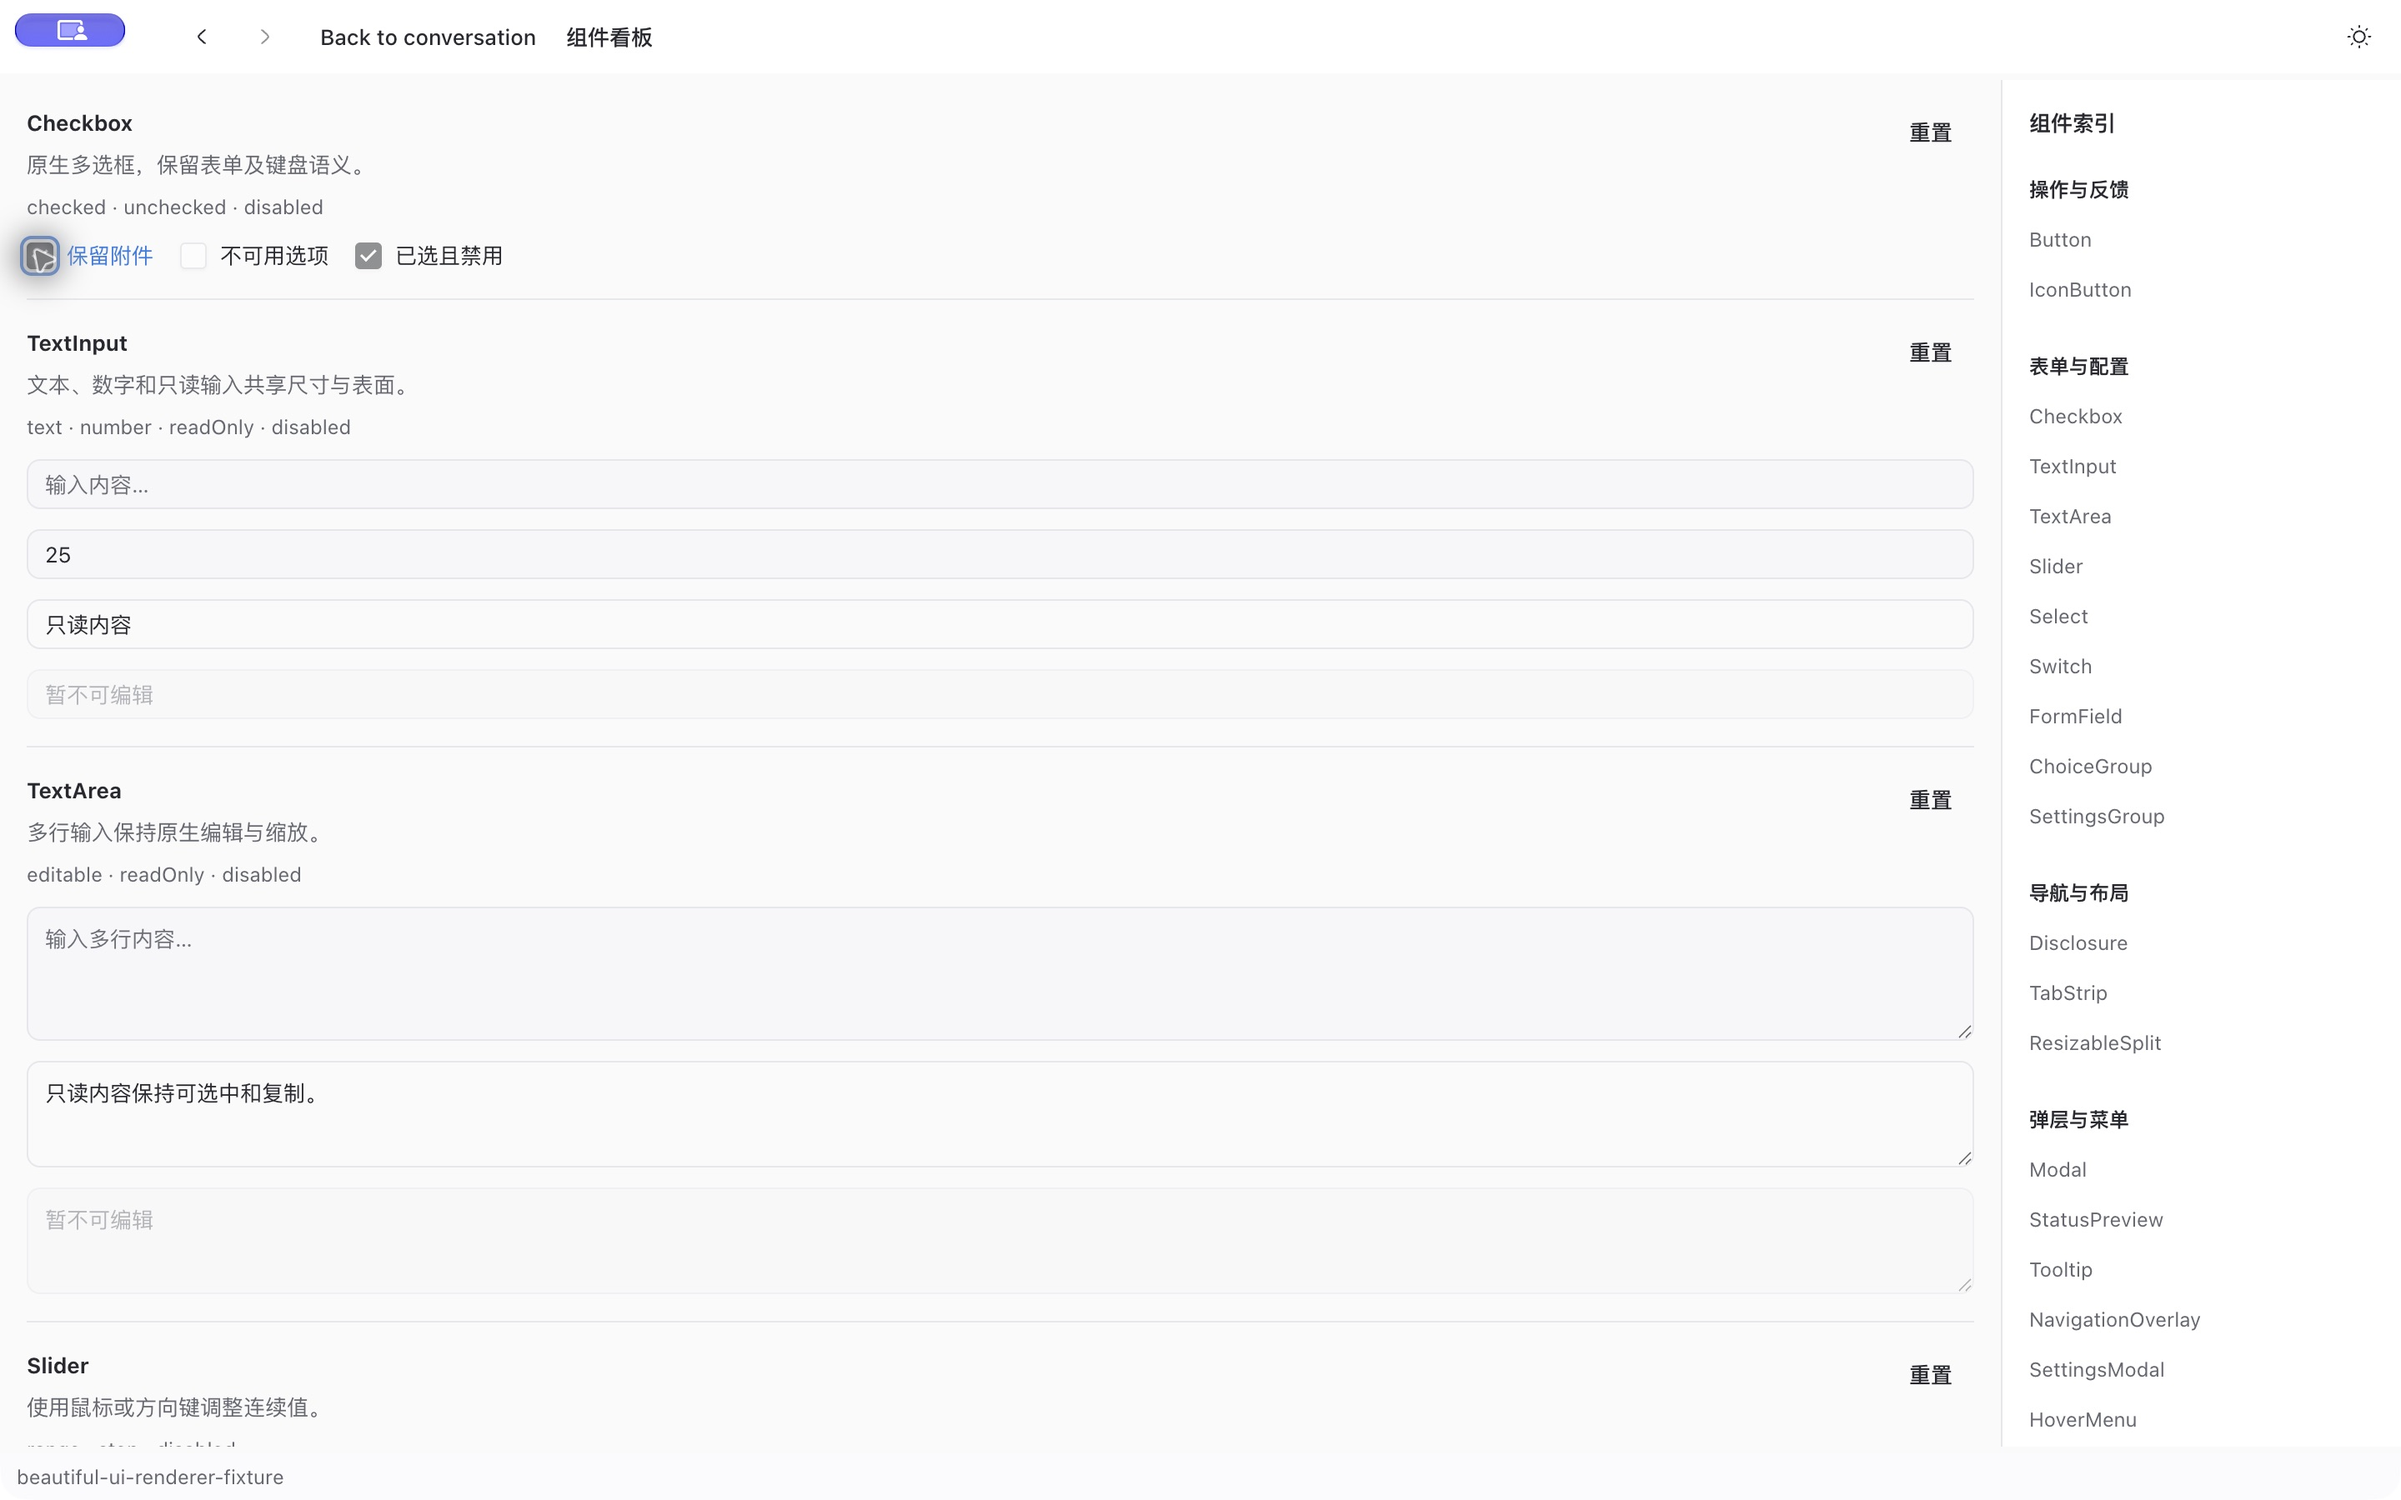
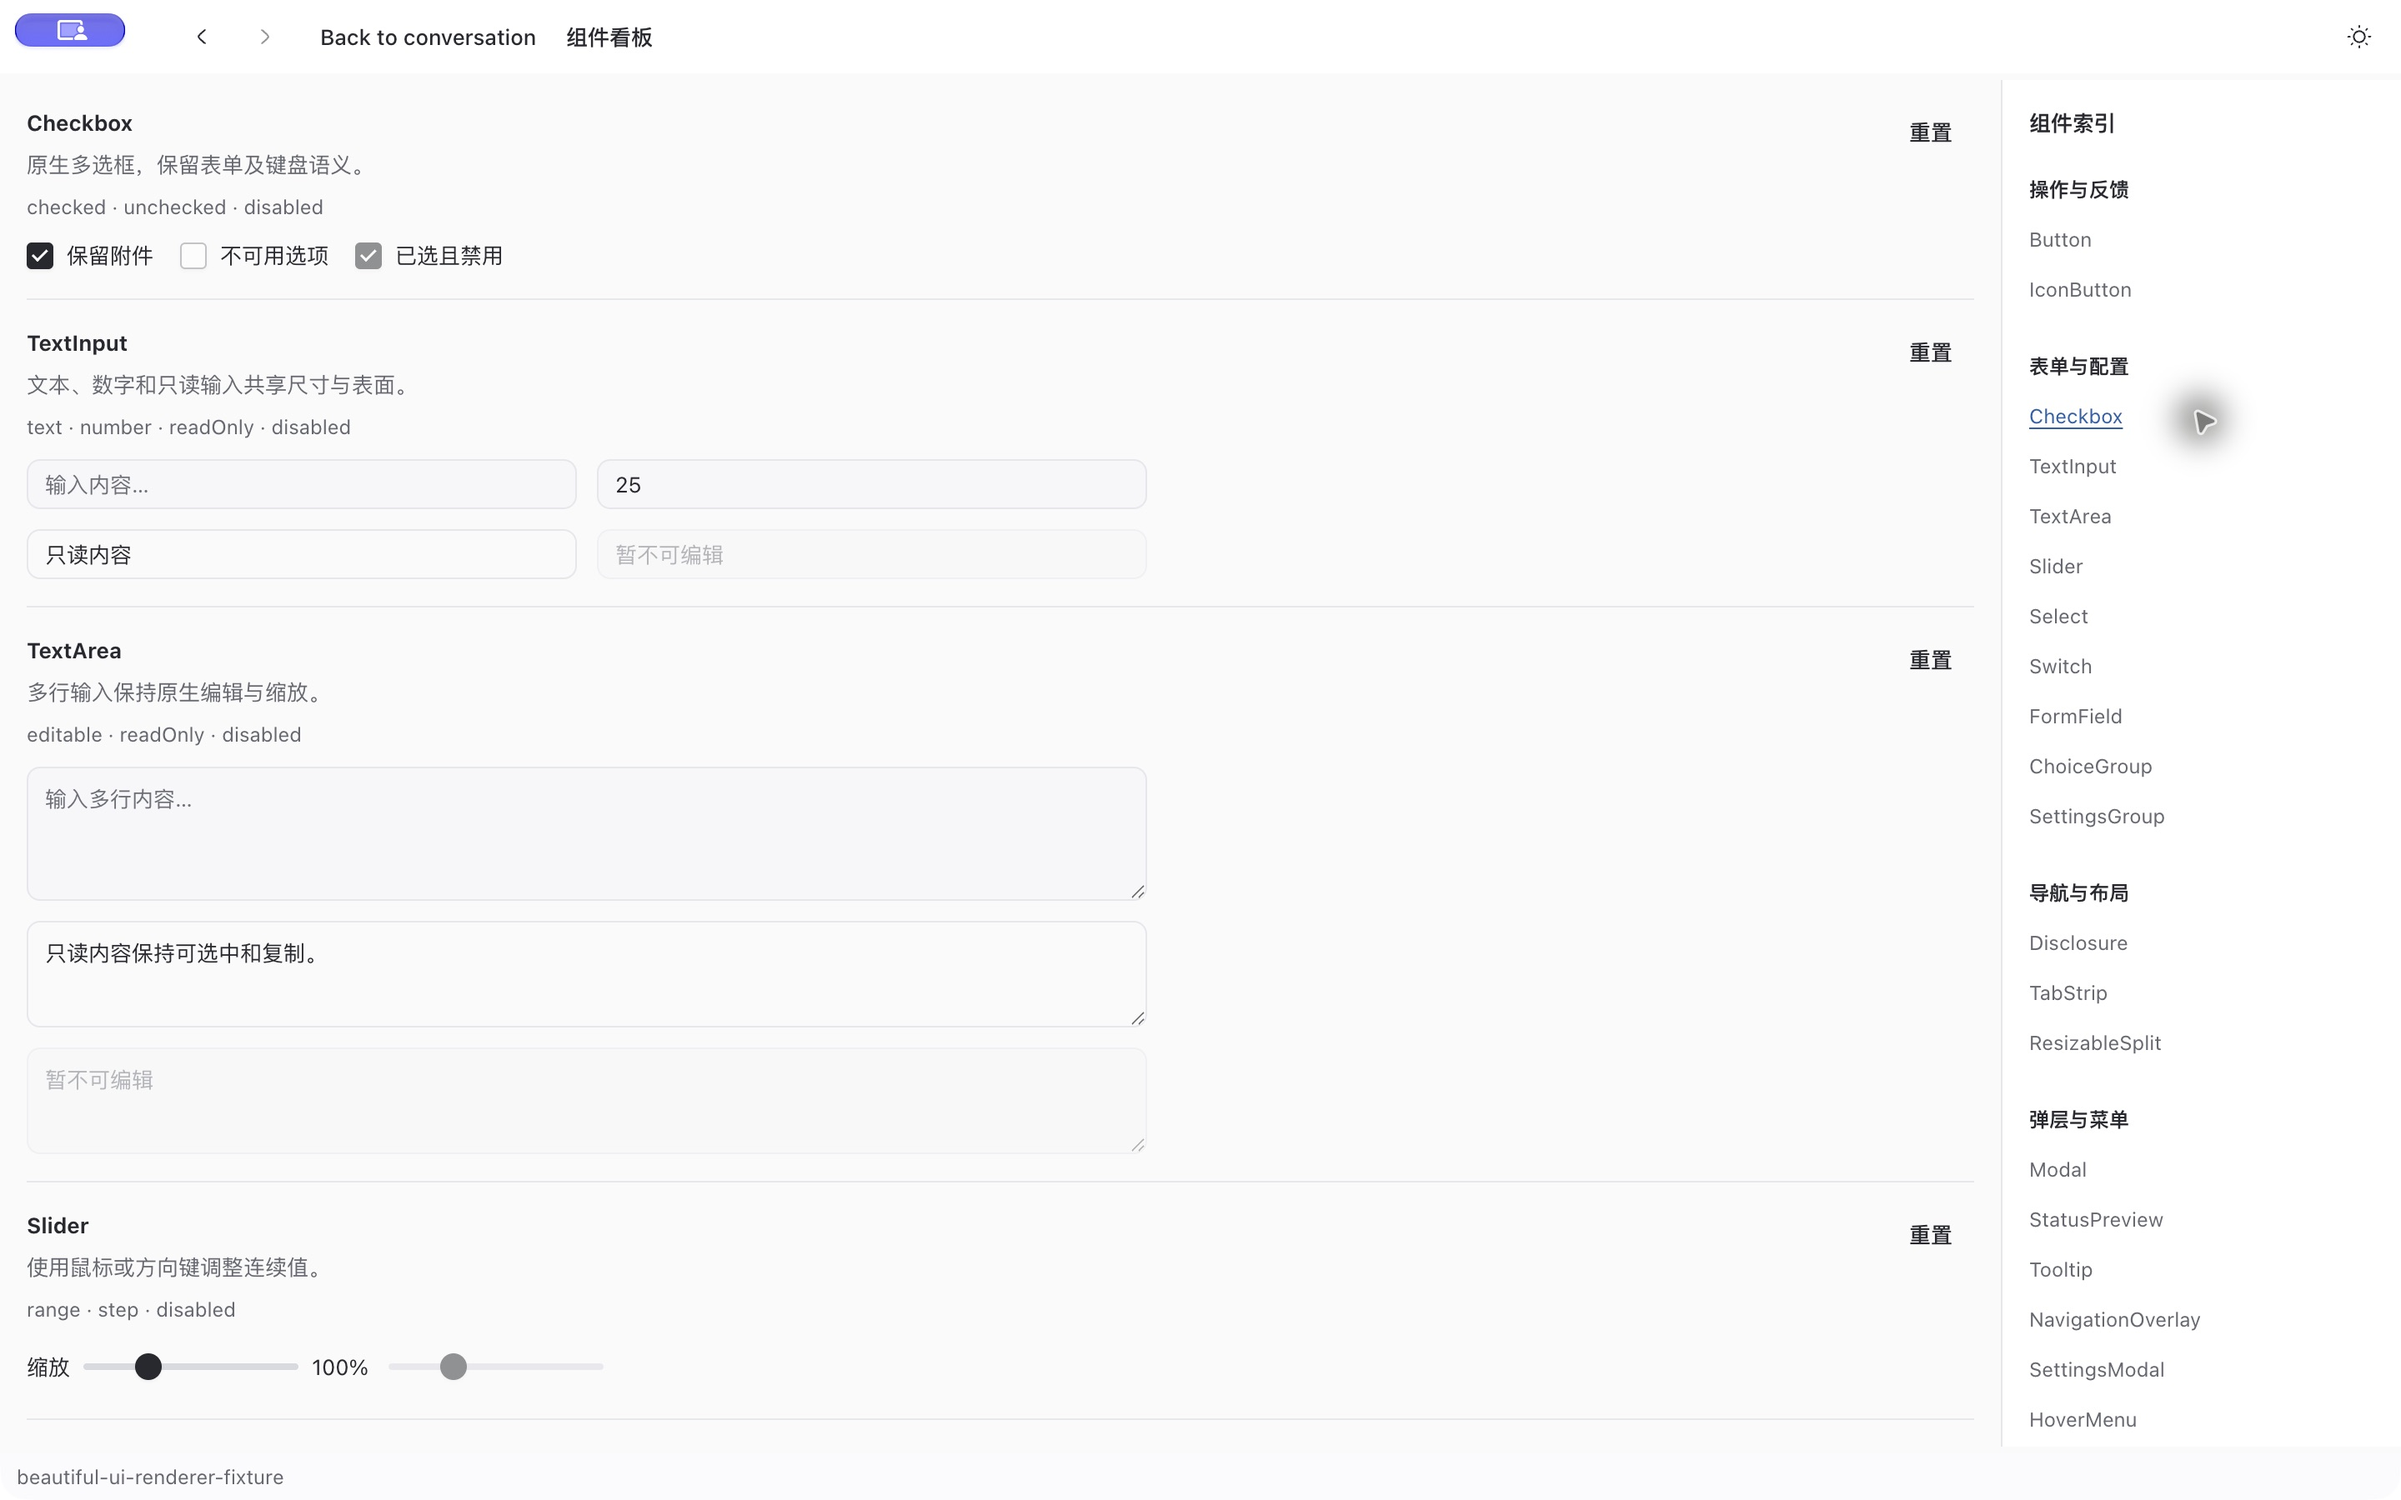
fix(ui): correct control contrast and neutral action states

diff --git a/src/app/renderer/styles/tokens.css b/src/app/renderer/styles/tokens.css
@@ -30,8 +30,16 @@
     var(--emphasis) 78%,
     var(--foreground)
   );
-  --primary-hover: color-mix(in srgb, var(--primary) 90%, var(--foreground));
-  --primary-active: color-mix(in srgb, var(--emphasis) 78%, var(--foreground));
+  --primary-hover: color-mix(
+    in srgb,
+    var(--primary) 88%,
+    var(--primary-foreground)
+  );
+  --primary-active: color-mix(
+    in srgb,
+    var(--primary) 78%,
+    var(--primary-foreground)
+  );
   --muted-hover: color-mix(
     in srgb,
     var(--muted-foreground) 12%,
@@ -39,7 +47,7 @@
   );
   --foreground: var(--preview-light-foreground);
   --primary: #27292e;
-  --emphasis: #287de0;
+  --emphasis: #246fca;
   --emphasis-foreground: #ffffff;
   --emphasis-hover: color-mix(in srgb, var(--emphasis) 90%, var(--foreground));
   --emphasis-active: color-mix(in srgb, var(--emphasis) 78%, var(--foreground));
@@ -50,6 +58,7 @@
   --muted-foreground: #646870;
   --border: #e6e7eb;
   --border-strong: #d8dae0;
+  --control-border: #8a8d95;
   --border-soft: #eff0f2;
   --field: #f7f7f8;
   --placeholder: #6b6f77;
@@ -137,6 +146,7 @@
   --muted-foreground: #adb0b8;
   --border: #383a40;
   --border-strong: #4a4d55;
+  --control-border: #797d88;
   --border-soft: #2e3035;
   --field: #28292e;
   --placeholder: #a2a6af;

diff --git a/src/app/renderer/styles/app.css b/src/app/renderer/styles/app.css
@@ -613,10 +613,10 @@
     padding-inline: var(--layout-gap);
     scrollbar-gutter: stable;
   }
-  .runtime-source[open] {
+  .runtime-source:has(> .ui-disclosure[open]) {
     grid-column: 1 / -1;
   }
-  .runtime-source[open] > :not(summary) {
+  .runtime-source > .ui-disclosure[open] > :not(summary) {
     display: block;
     margin-top: calc(var(--layout-gap) / 2);
   }

diff --git a/src/app/renderer/styles/workbench.css b/src/app/renderer/styles/workbench.css
@@ -516,11 +516,7 @@
     margin-inline-end: auto;
     max-width: 100%;
   }
-  .composer-help > summary {
-    cursor: default;
-    padding: calc(var(--layout-gap) / 2);
-  }
-  .composer-help > p {
+  .composer-help > .ui-disclosure > p {
     margin-block: calc(var(--layout-gap) / 2);
   }
   .runtime-panel > [hidden] {

diff --git a/src/modules/ui/renderer/primitives.css b/src/modules/ui/renderer/primitives.css
@@ -8,7 +8,7 @@
     width: 1rem;
     height: 1rem;
     margin: 0;
-    border: 1px solid var(--border-strong);
+    border: 1px solid var(--control-border);
     border-radius: calc(var(--radius-chip) / 2);
     color: var(--primary-foreground);
     background: var(--surface);

diff --git a/docs/architecture/design-system-references.md b/docs/architecture/design-system-references.md
@@ -65,4 +65,4 @@
 
 ## 2026-10-07 基础体系升级
 
-用户确认 Beautiful UI 从写法参考提升为本轮直接视觉和动效对照，工程接入仍采用自有 API、统一 token 与 Base UI。固定源码提交 `44a274e598395ab61e7c96c26fda2758780253b7`；对照中性主按钮、蓝色强调按钮、胶囊文字动作、不同表面的边界与浅层阴影及短按压反馈。来源与研究见[已有调研](../../.scratch/codex-workbench-ui/research.md#7-beautiful-ui-实物调研2026-10-06)及[升级规格](../../.scratch/beautiful-ui-system/spec.md)；不移植示例计时器、假运行状态或整套组件库。
+用户确认 Beautiful UI 从写法参考提升为本轮直接视觉和动效对照，工程接入仍采用自有 API、统一 token 与 Base UI。固定源码提交 `44a274e598395ab61e7c96c26fda2758780253b7`；对照中性主按钮、蓝色强调按钮、胶囊文字动作、不同表面的边界与浅层阴影及短按压反馈。来源与研究见[已有调研](../../.scratch/codex-workbench-ui/research.md#7-beautiful-ui--tool-ui组件写法与自有封装)及[升级规格](../../.scratch/beautiful-ui-system/spec.md)；不移植示例计时器、假运行状态或整套组件库。
